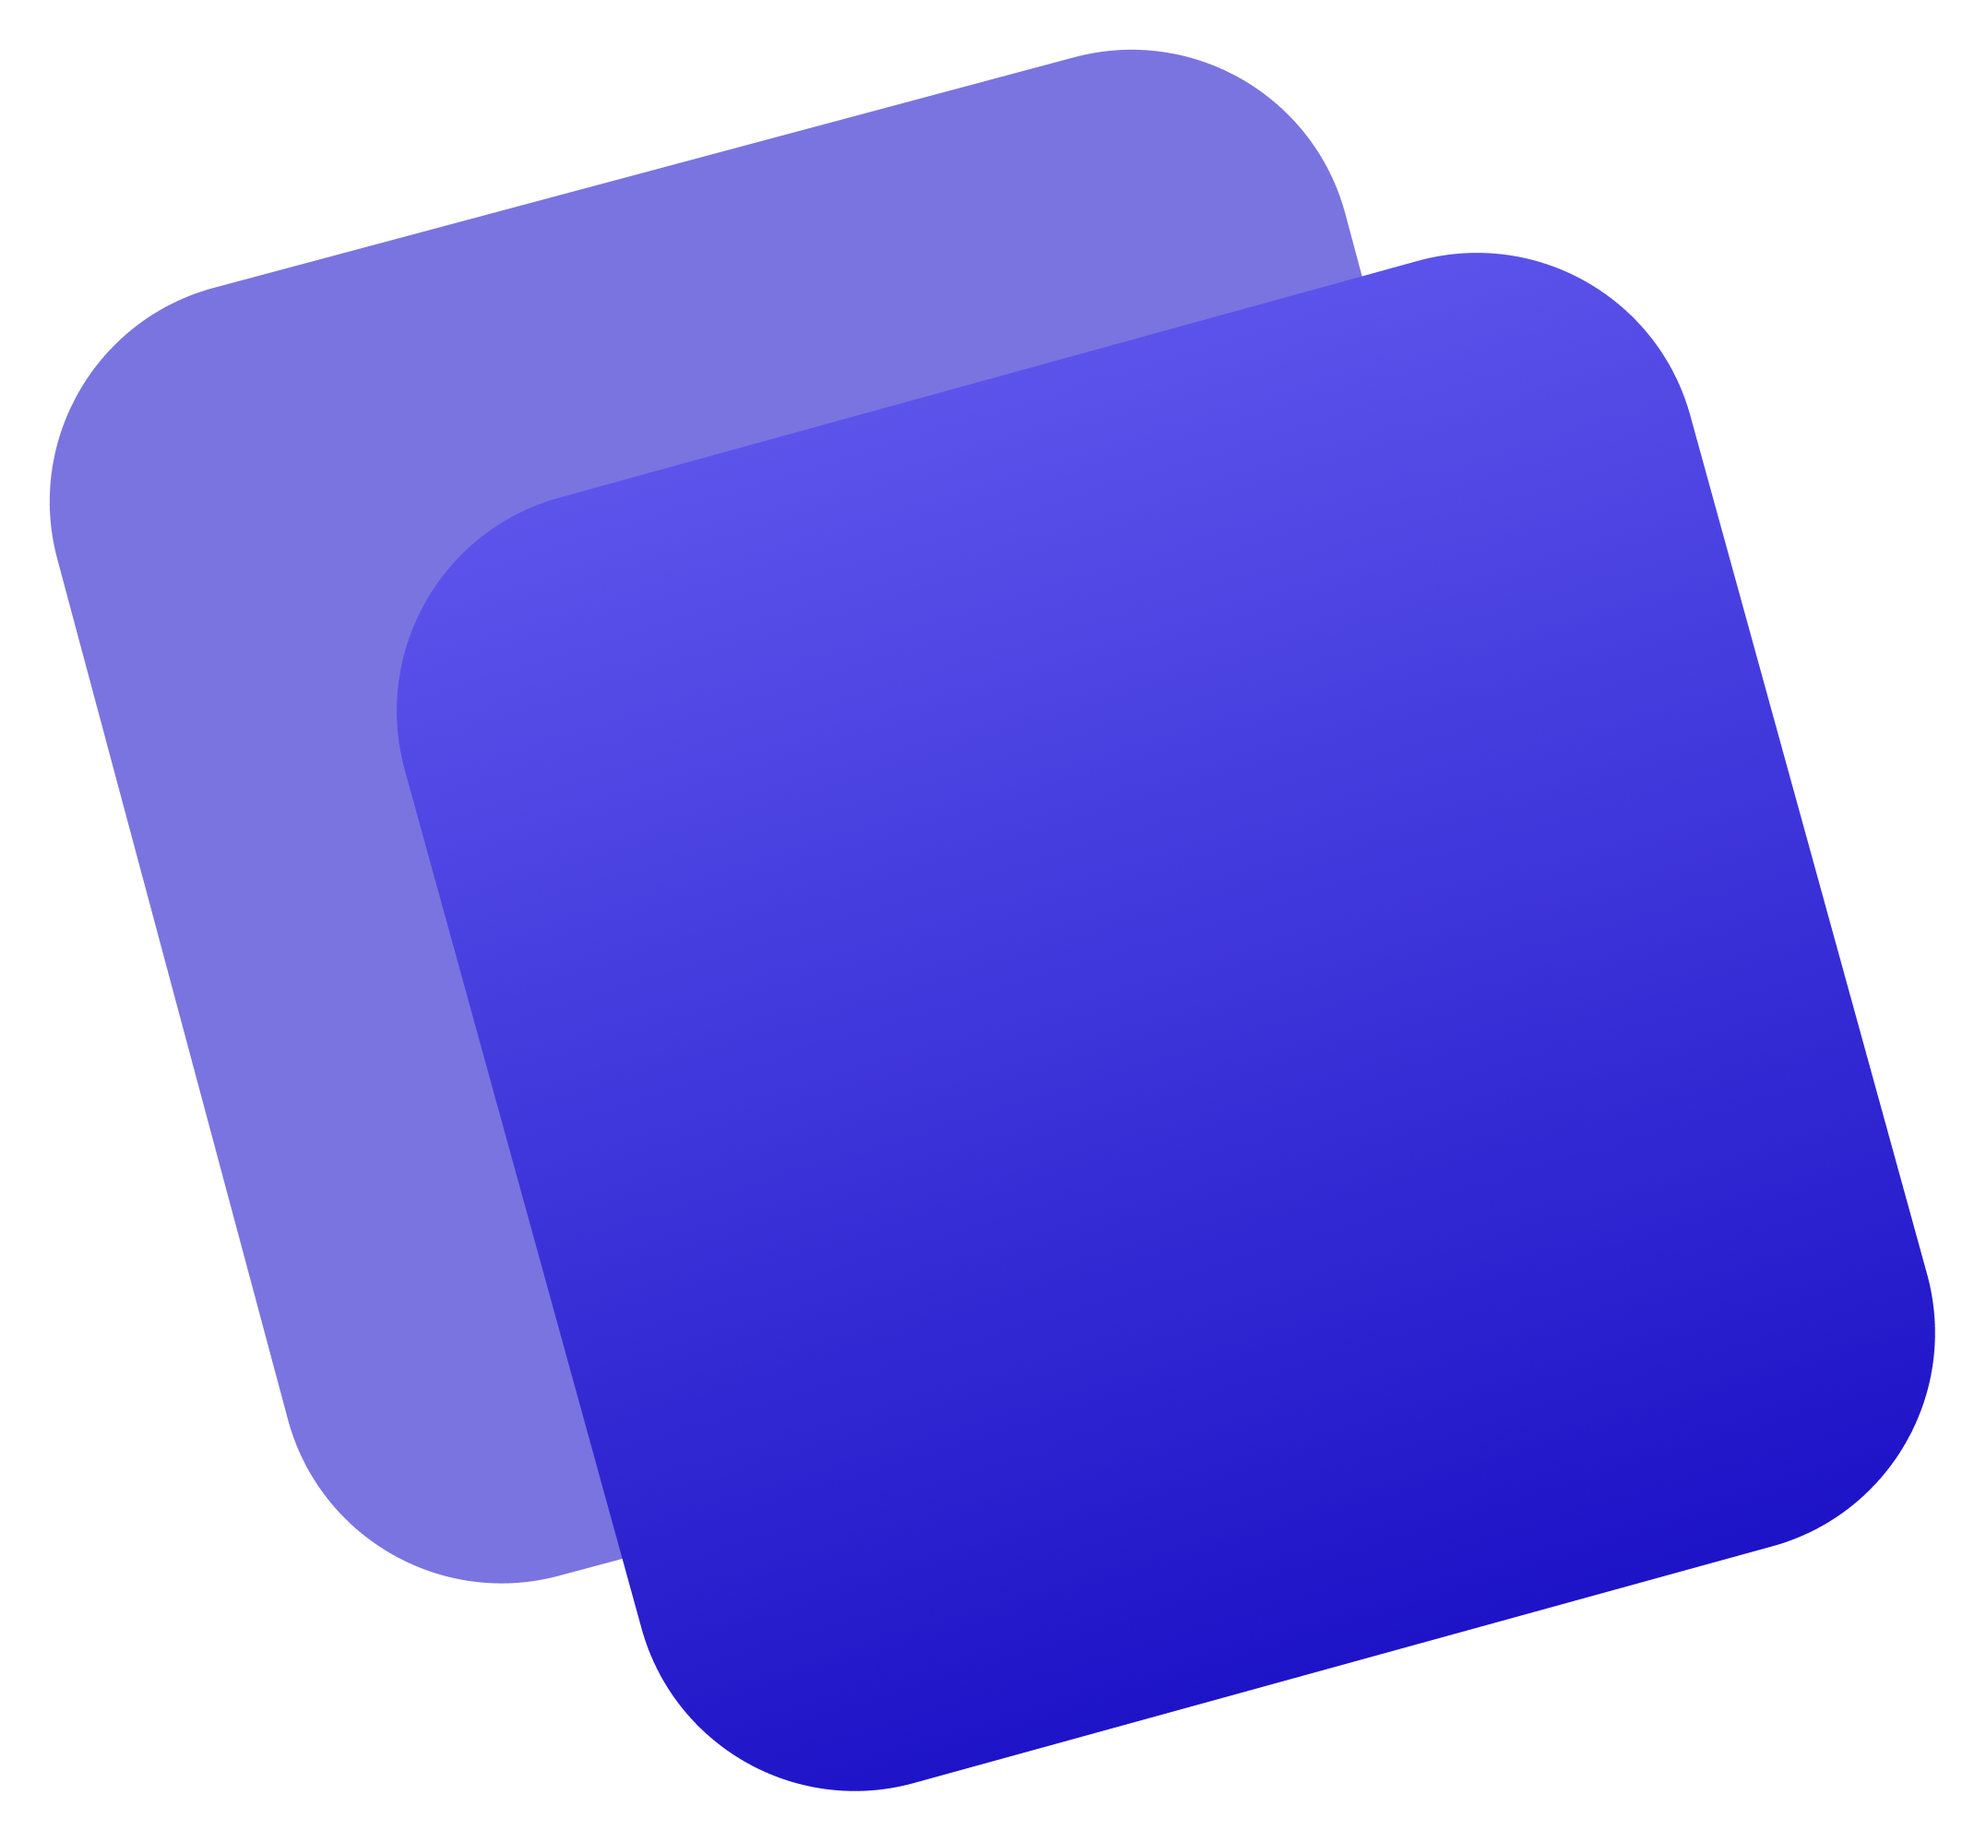
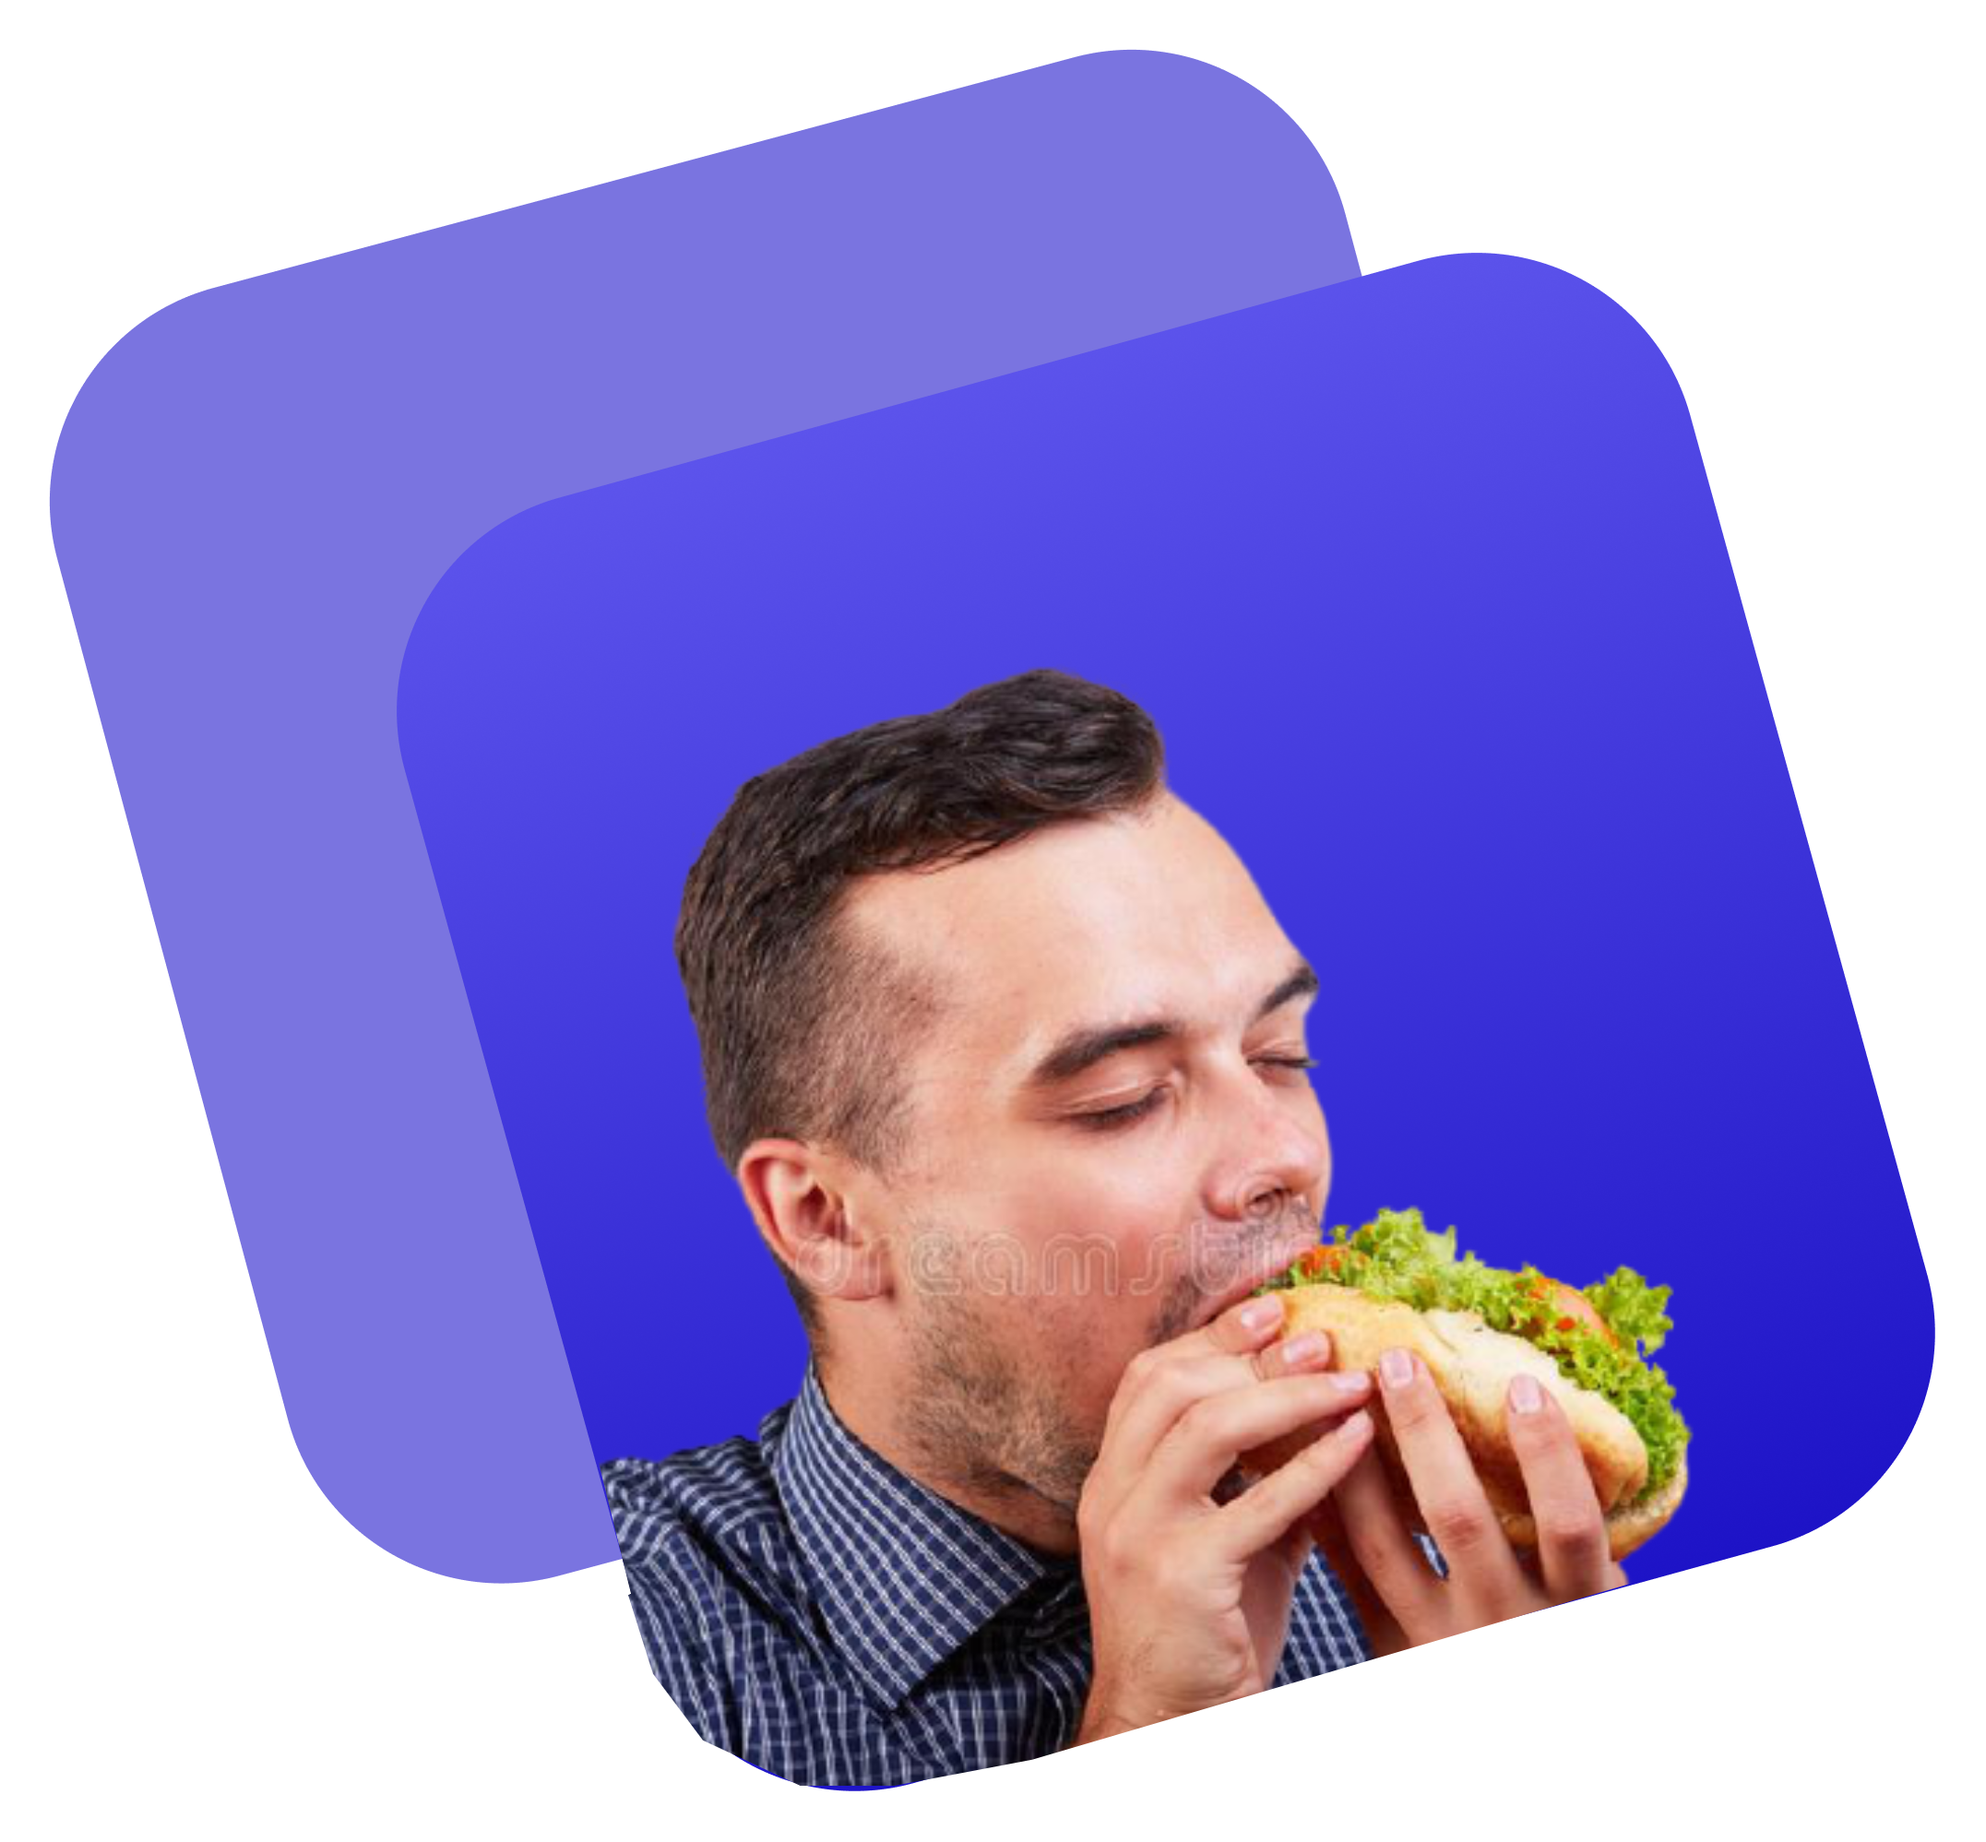
first-head-done

Changed region(s): [[0.2801, 0.3415, 0.8713, 0.9935]]

diff --git a/index.html b/index.html
@@ -1,12 +1,45 @@
 <!DOCTYPE html>
 <html lang="en">
+
 <head>
     <meta charset="UTF-8">
     <meta http-equiv="X-UA-Compatible" content="IE=edge">
     <meta name="viewport" content="width=device-width, initial-scale=1.0">
+    <link rel="stylesheet" href="css/style.css">
+    <link rel="preconnect" href="https://fonts.googleapis.com">
+    <link rel="preconnect" href="https://fonts.gstatic.com" crossorigin>
+    <link href="https://fonts.googleapis.com/css2?family=Montserrat:wght@200;300;400;500;600;700&display=swap"
+        rel="stylesheet">
     <title>Healthy Food</title>
 </head>
+
 <body>
-    
+    <section class="flex-head">
+        <div class="container flex-head">
+            <div class="head-txt">
+                <h1><span>Skip</span> The Diet,
+                    Just Eat Healthy
+                    With Food Network</h1>
+                <h4>Imagine you don't need a diet because we provide
+                    healthy and delicious food for you!</h4>
+                <a target="_blank" href="https://github.com/nahidhasan01">Order Now</a>
+            </div>
+            <div class="head-img">
+                <img src="photos/Group 8446.png" alt="">
+            </div>
+        </div>
+    </section>
+    <!-- section-2 starts -->
+    <section class="body-flex">
+        <div class="container body-flex">
+            <div class="body-img">
+                <img src="photos/6667872_preview-removebg-preview.png" alt="">
+            </div>
+            <div class="body-txt">
+
+            </div>
+        </div>
+    </section>
 </body>
+
 </html>

diff --git a/css/style.css b/css/style.css
@@ -1,0 +1,66 @@
+body {
+    background-color: E5E5E5;
+    font-family: 'Montserrat', sans-serif;
+    margin: 0;
+}
+
+.container {
+    width: 1500px;
+    margin: 0 auto;
+}
+
+.flex-head {
+    display: flex;
+}
+
+.head-img img {
+    width: 800px;
+}
+
+.head-txt span {
+    color: orange;
+}
+
+.head-txt h1 {
+    font-size: 60px;
+    color: #575757;
+    margin-top: 200px;
+}
+
+.head-txt h4 {
+    font-size: 20px;
+    color: dimgray;
+    font-weight: 500;
+    margin-right: 50px;
+    display: block;
+    margin-top: 60px;
+}
+
+.head-txt a {
+    text-decoration: none;
+    background-image: linear-gradient(#FBA24F, #FF1E1E);
+    padding: 20px 35px;
+    border-radius: 40px;
+    color: white;
+    font-size: 16px;
+    font-weight: 600;
+    display: block;
+    width: 100px;
+    text-align: center;
+    margin-top: 50px;
+}
+
+
+.head-txt {
+    width: 50%;
+}
+
+.head-img {
+    width: 50%;
+}
+
+/* section 1 closed */
+.body-flex {
+    display: flex;
+    background-image: url(../photos/Frame\ 56.jpg);
+}
